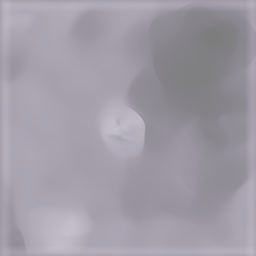
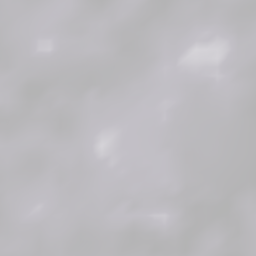
Radar - Fix with new heightmap

diff --git a/src/components/Radar/index.js b/src/components/Radar/index.js
@@ -32,7 +32,7 @@ class Radar extends Component {
 
     this.config = {
       refreshTime: 3,
-      radarSize: 200,
+      radarSize: 150,
       radarScannerSize: 2
     };
 
@@ -110,16 +110,18 @@ class Radar extends Component {
     this.prevCamNormalizePosition = this.camNormalizePosition;
 
     this.camNormalizePosition  = {
-      x: normalize( 0, terrain.geometry.width, position.x ),
-      y: normalize( 0, terrain.geometry.height, position.z ) * -1
+      x: normalize( 0, terrain.geometry.width, position.x ) + 0.5,
+      y: normalize( 0, terrain.geometry.height, position.z ) * -1 + 0.5,
     };
+
+    console.log( this.camNormalizePosition );
   }
 
   onFishGroupPositionSended( position ) {
 
     const normalizePos = {
-      x: normalize( 0, terrain.geometry.width, position.x ),
-      y: normalize( 0, terrain.geometry.height, position.z ) * -1
+      x: normalize( 0, terrain.geometry.width, position.x ) + 0.5,
+      y: normalize( 0, terrain.geometry.height, position.z ) * -1 + 0.5
     };
 
     this.fishesPosition.push( normalizePos );

diff --git a/src/components/WebGLExperience/core/NicePersonControls.js b/src/components/WebGLExperience/core/NicePersonControls.js
@@ -130,14 +130,14 @@ class NicePersonControls {
   debugSetPosition( x, y, z ) {
     this.cannonBody.position.x = x;
     this.cannonBody.position.y = y;
-    this.cannonBody.position.z = z;
+    this.cannonBody.position.z = 4000;
     this.yawObject.position.copy( this.cannonBody.position );
   }
 
   getPosition() {
 
     Emitter.emit( EXP_CAMERA_POSITION_SENDED, this.cannonBody.position );
-
+    
     return this.cannonBody.position;
 
   }

diff --git a/src/config/webgl/experience/camera.js b/src/config/webgl/experience/camera.js
@@ -3,7 +3,7 @@ export default {
   aspect: window.innerWidth / window.innerHeight,
   near: 1,
   far: 10000,
-  position: new THREE.Vector3( 200, 1500, 0 ),
+  position: new THREE.Vector3( 0, 1500, 0 ),
   orbitControls: false,
   firstPersonControls: true
 };

diff --git a/src/components/WebGLExperience/meshes/Player.js b/src/components/WebGLExperience/meshes/Player.js
@@ -41,7 +41,7 @@ class Player extends THREE.Object3D {
 
     this.luxVal = 0.9;
     this.previousluxVal = 0.2;
-    this.decreaseLuxVal = 1 / 100000000;
+    this.decreaseLuxVal = 1 / 10000;
 
     this.nbLights = this.playerConfig.number;
 

diff --git a/src/components/LevelIntroduction/IntroductionTooltips/styles.scss b/src/components/LevelIntroduction/IntroductionTooltips/styles.scss
@@ -28,7 +28,7 @@
 
   &--location {
     top: 9rem;
-    left: 25rem;
+    left: 20rem;
   }
 
   &--timer {
